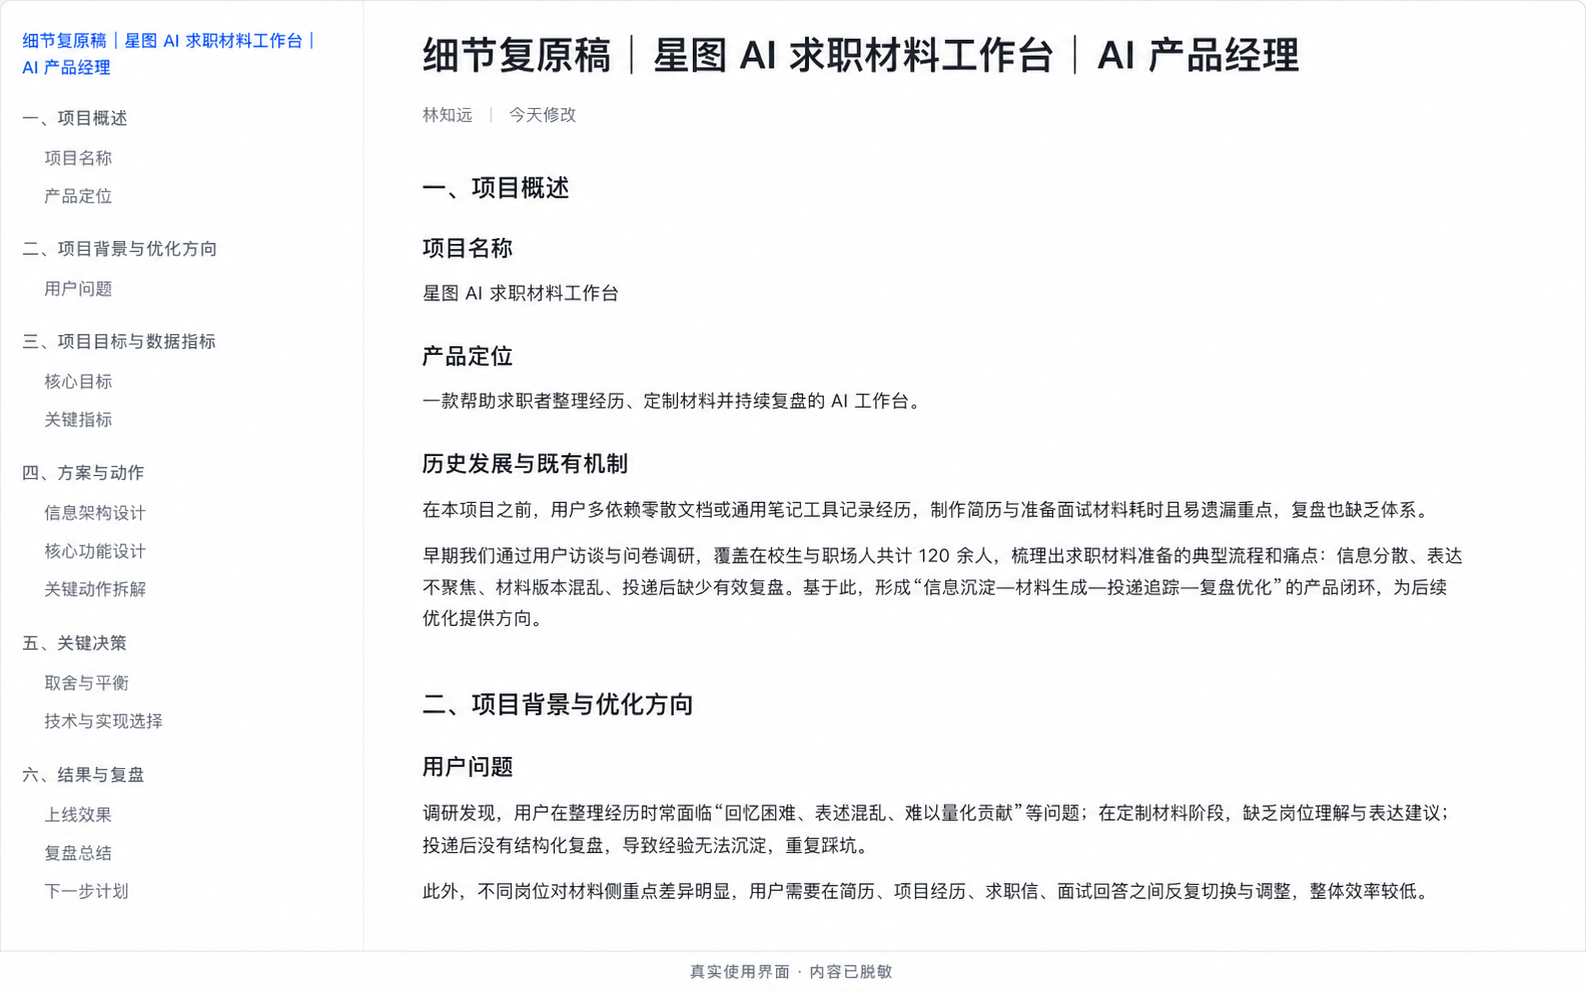
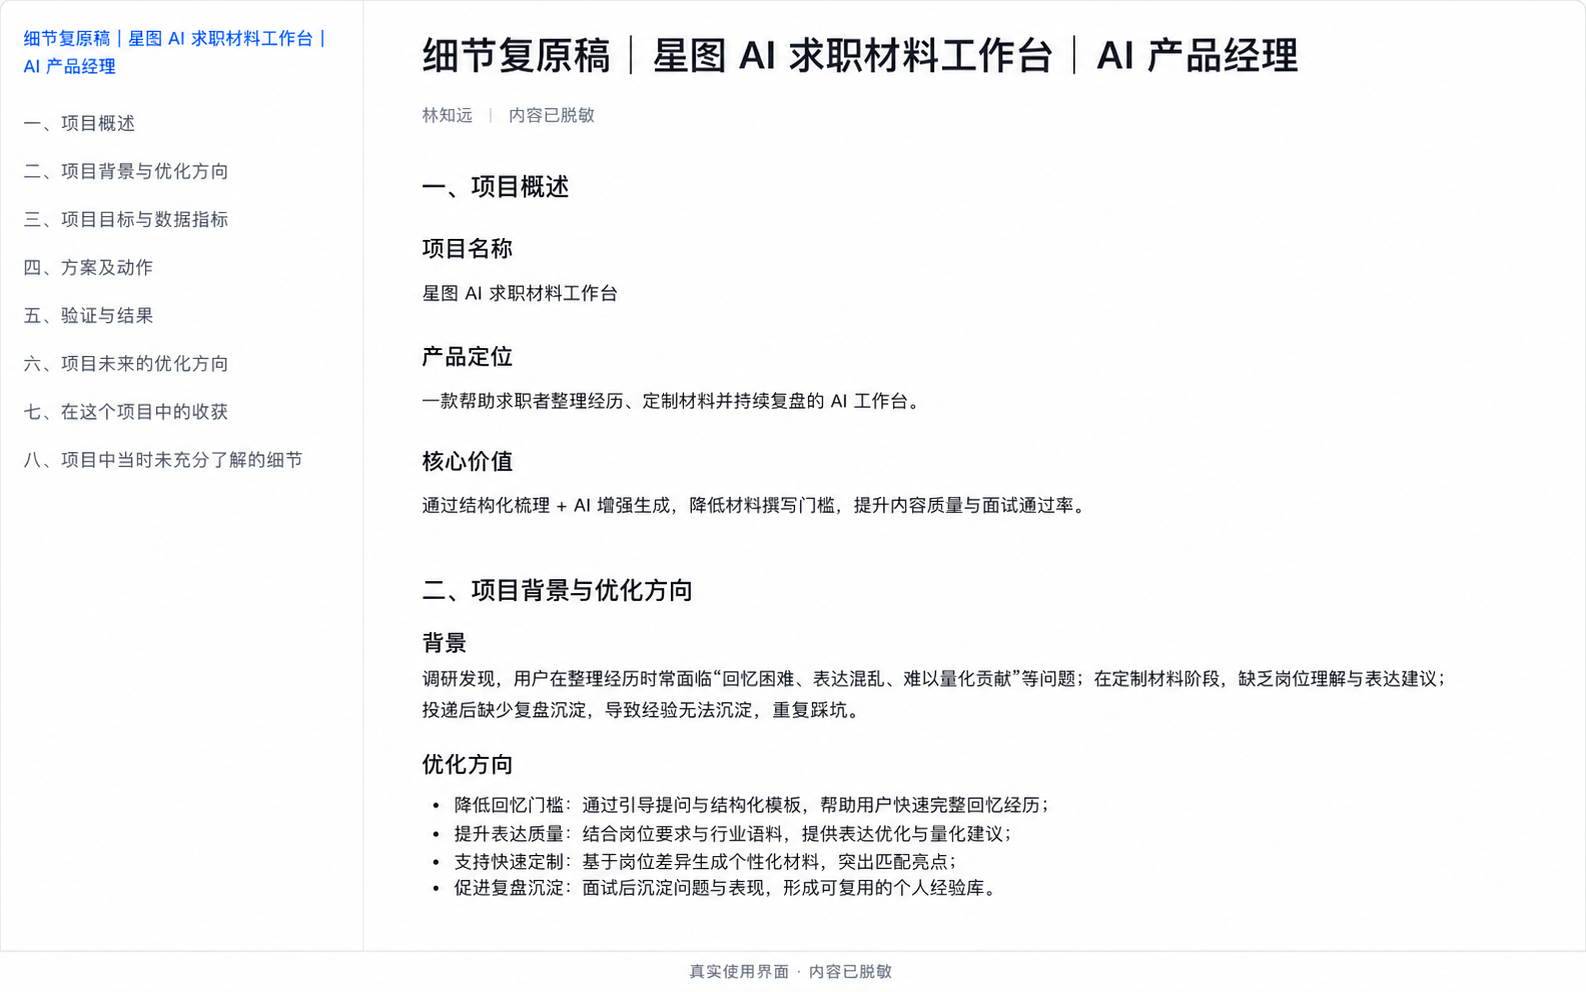
fix: align real-use gallery and refresh assets

diff --git a/app/globals.css b/app/globals.css
@@ -1646,9 +1646,9 @@ h1 span { display: block; }
   display: grid;
   width: min(1160px, 100%);
   margin: 54px auto 0;
-  grid-template-columns: 270px minmax(0, 1fr);
-  gap: 42px;
-  align-items: start;
+  grid-template-columns: minmax(330px, 0.72fr) minmax(0, 1.28fr);
+  gap: 48px;
+  align-items: stretch;
 }
 
 .real-use-panel[hidden] { display: none; }
@@ -1659,11 +1659,19 @@ h1 span { display: block; }
   to { opacity: 1; transform: translateY(0); }
 }
 
-.real-use-copy { position: sticky; top: 120px; padding: 20px 0; }
-.real-use-copy > span { color: #7e82a0; font-family: var(--font-geist-mono), monospace; font-size: 9px; letter-spacing: 0.13em; }
-.real-use-copy h3 { margin: 22px 0 0; color: #f4f4f6; font-size: 34px; font-weight: 580; letter-spacing: -0.045em; line-height: 1.16; }
-.real-use-copy p { margin: 22px 0 0; color: #898b95; font-size: 15px; line-height: 1.7; }
-.real-use-copy small { display: inline-flex; margin-top: 30px; padding: 8px 11px; border: 1px solid rgba(255, 255, 255, 0.11); border-radius: 999px; color: #72747d; font-family: var(--font-geist-mono), monospace; font-size: 8px; letter-spacing: 0.08em; }
+.real-use-copy {
+  display: flex;
+  min-height: 660px;
+  padding: 0 0 4px;
+  flex-direction: column;
+  align-items: flex-start;
+  justify-content: flex-end;
+}
+.real-use-panel[data-count='3'] .real-use-copy { min-height: 830px; }
+.real-use-copy > span { color: #7e82a0; font-family: var(--font-geist-mono), monospace; font-size: 10px; letter-spacing: 0.13em; }
+.real-use-copy h3 { max-width: 390px; margin: 22px 0 0; color: #f4f4f6; font-size: clamp(38px, 3.2vw, 46px); font-weight: 580; letter-spacing: -0.05em; line-height: 1.08; }
+.real-use-copy p { max-width: 390px; margin: 24px 0 0; color: #898b95; font-size: 17px; line-height: 1.72; }
+.real-use-copy small { display: inline-flex; margin-top: 30px; padding: 9px 12px; border: 1px solid rgba(255, 255, 255, 0.11); border-radius: 999px; color: #72747d; font-family: var(--font-geist-mono), monospace; font-size: 9px; letter-spacing: 0.08em; }
 
 .real-use-gallery {
   position: relative;
@@ -1938,7 +1946,8 @@ body.has-lightbox { overflow: hidden; }
   .flow-breadcrumb { left: 32px; }
   .install-card { grid-template-columns: 1fr; }
   .real-use-panel { grid-template-columns: 1fr; gap: 28px; }
-  .real-use-copy { position: static; max-width: 620px; }
+  .real-use-copy,
+  .real-use-panel[data-count='3'] .real-use-copy { min-height: 0; max-width: 620px; padding-bottom: 0; }
   .real-use-copy h3 { font-size: 36px; }
   .install-summary { min-height: 480px; border-right: 0; border-bottom: 1px solid rgba(255, 255, 255, 0.12); }
   .footer-bottom { grid-template-columns: 1fr auto; }

diff --git a/app/page.tsx b/app/page.tsx
@@ -688,6 +688,7 @@ export default function Home() {
         {realUseGroups.map((group, index) => (
           <div
             className={`real-use-panel ${realUseTab === index ? 'is-active' : ''}`}
+            data-count={group.images.length}
             id={`real-use-panel-${group.id}`}
             role="tabpanel"
             aria-labelledby={`real-use-tab-${group.id}`}
